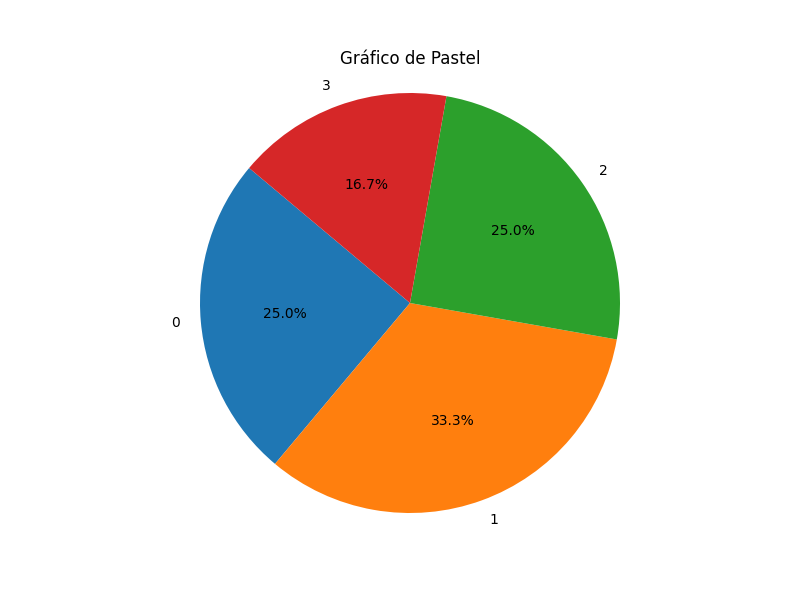
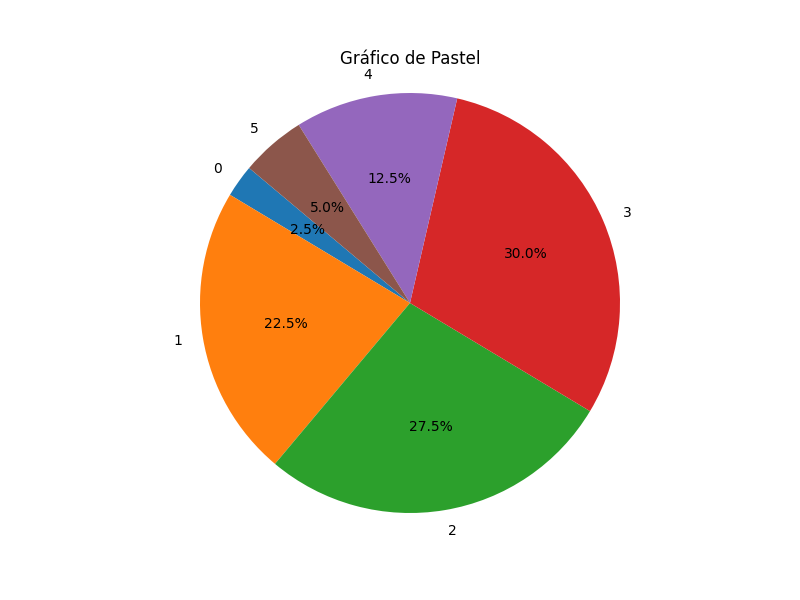
error de funcion freqrel corregido

Changed region(s): [[0.25, 0.15, 0.7812, 0.87], [0.25, 0.27, 0.2812, 0.3]]

diff --git a/app.py b/app.py
@@ -88,8 +88,8 @@ def index():
             marcas.append((linferior + lsuperior) / 2) #Añadiendo a la lista las marcas de clase
             fabs.append(freqabs (data, linferior, lsuperior)) #Añadiendo a la lista las frecuencias absolutas 
             fabsacum.append(freqabsacum(fabs)) #Añadiendo a la lista Las frecuencias absolutas acumuladas
-            frel.append(freqrel(fabs)) #Añadiendo a la lista Las frecuencias relativas 
-            frelacum.append(freqrel(fabsacum)) #Añadiendo a la lista las frecuencias relativas acumuladas
+            frel.append(freqrel(fabs,Total)) #Añadiendo a la lista Las frecuencias relativas 
+            frelacum.append(freqrel(fabsacum,Total)) #Añadiendo a la lista las frecuencias relativas acumuladas
 
             table.loc[i] = [i,f"[{linferior}, {lsuperior})", (linferior + lsuperior) / 2, freqabs(data, linferior, lsuperior), freqabsacum(fabs), freqrel(fabs,Total), freqrel(fabsacum,Total)] #Añadiendole valores a la tabla
 
